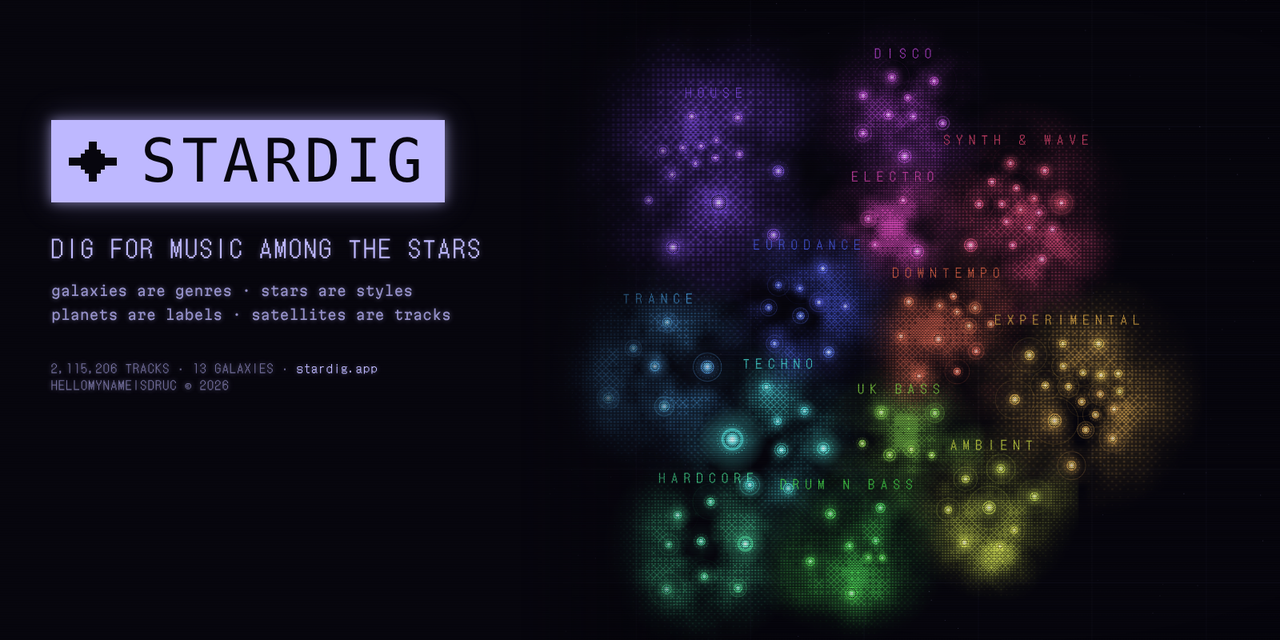
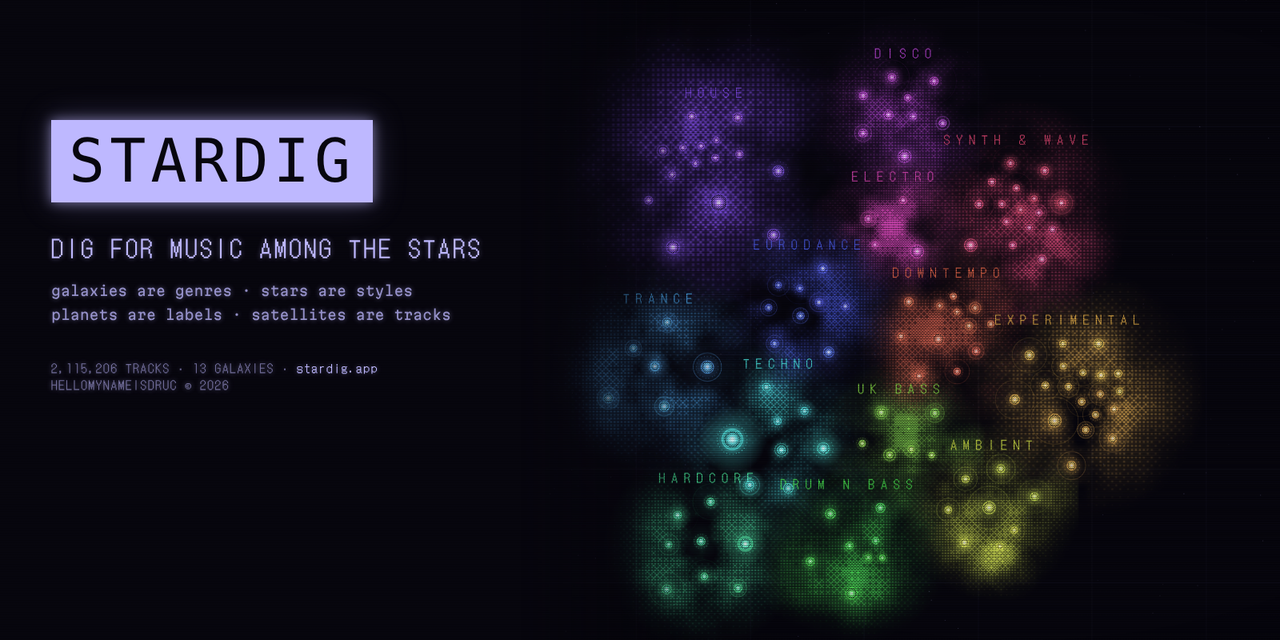
Wordmark: STARDIG in Martian Mono capitals, no spark
Claude-Session: https://claude.ai/code/session_0118KSDC269jzHuEKW3jVK4F

Changed region(s): [[0.0312, 0.1562, 0.375, 0.3438]]

diff --git a/web/src/ui/logo.ts b/web/src/ui/logo.ts
@@ -1,4 +1,4 @@
-// The wordmark: a four-point pixel spark and STARDIG in Martian Mono capitals — the same face as the
+// The wordmark: STARDIG in Martian Mono capitals — the same face as the
 // credit line. Drawn in the colour it sits in.
 const SPARK = ["............", "............", ".....##.....", ".....##.....", "....####....", "...######...", "############", "############", "...######...", "....####....", ".....##.....", ".....##.....", "............", "............"];
 
@@ -15,10 +15,10 @@ function sparkSvg(px: number) {
   return `<svg class="logo-spark" viewBox="0 0 12 14" width="${12 * px}" height="${14 * px}" fill="currentColor" shape-rendering="crispEdges" aria-hidden="true">${rects.join("")}</svg>`;
 }
 /** the wordmark: the spark, then STARDIG in Martian Mono capitals, the face of the credit line */
-export function logoHtml(px = 1, spark = true) {
+export function logoHtml(px = 1, spark = false) {
   return `${spark ? sparkSvg(px) : ""}<span class="logo-word" style="font-size:${Math.round(15 * px)}px" aria-hidden="true">STARDIG</span>`;
 }
 /** fill every .logo on the page */
 export function paintLogos() {
-  document.querySelectorAll<HTMLElement>(".logo").forEach((el) => { el.innerHTML = logoHtml(Number(el.dataset.px) || 1, el.dataset.spark !== "0"); });
+  document.querySelectorAll<HTMLElement>(".logo").forEach((el) => { el.innerHTML = logoHtml(Number(el.dataset.px) || 1, el.dataset.spark === "1"); });
 }

diff --git a/web/index.html b/web/index.html
@@ -18,11 +18,11 @@
   <meta property="og:title" content="stardig — dig for music among the stars">
   <meta property="og:description" content="Dig for music among the stars: genres are galaxies, styles are stars, labels are planets, tracks are satellites. By hellomynameisdruc.">
   <meta property="og:url" content="https://stardig.app/">
-  <meta property="og:image" content="https://stardig.app/og.png?v=5">
+  <meta property="og:image" content="https://stardig.app/og.png?v=6">
   <meta property="og:image:width" content="1280">
   <meta property="og:image:height" content="640">
   <meta name="twitter:card" content="summary_large_image">
-  <meta name="twitter:image" content="https://stardig.app/og.png?v=5">
+  <meta name="twitter:image" content="https://stardig.app/og.png?v=6">
 </head>
 <body>
   <div class="term">
